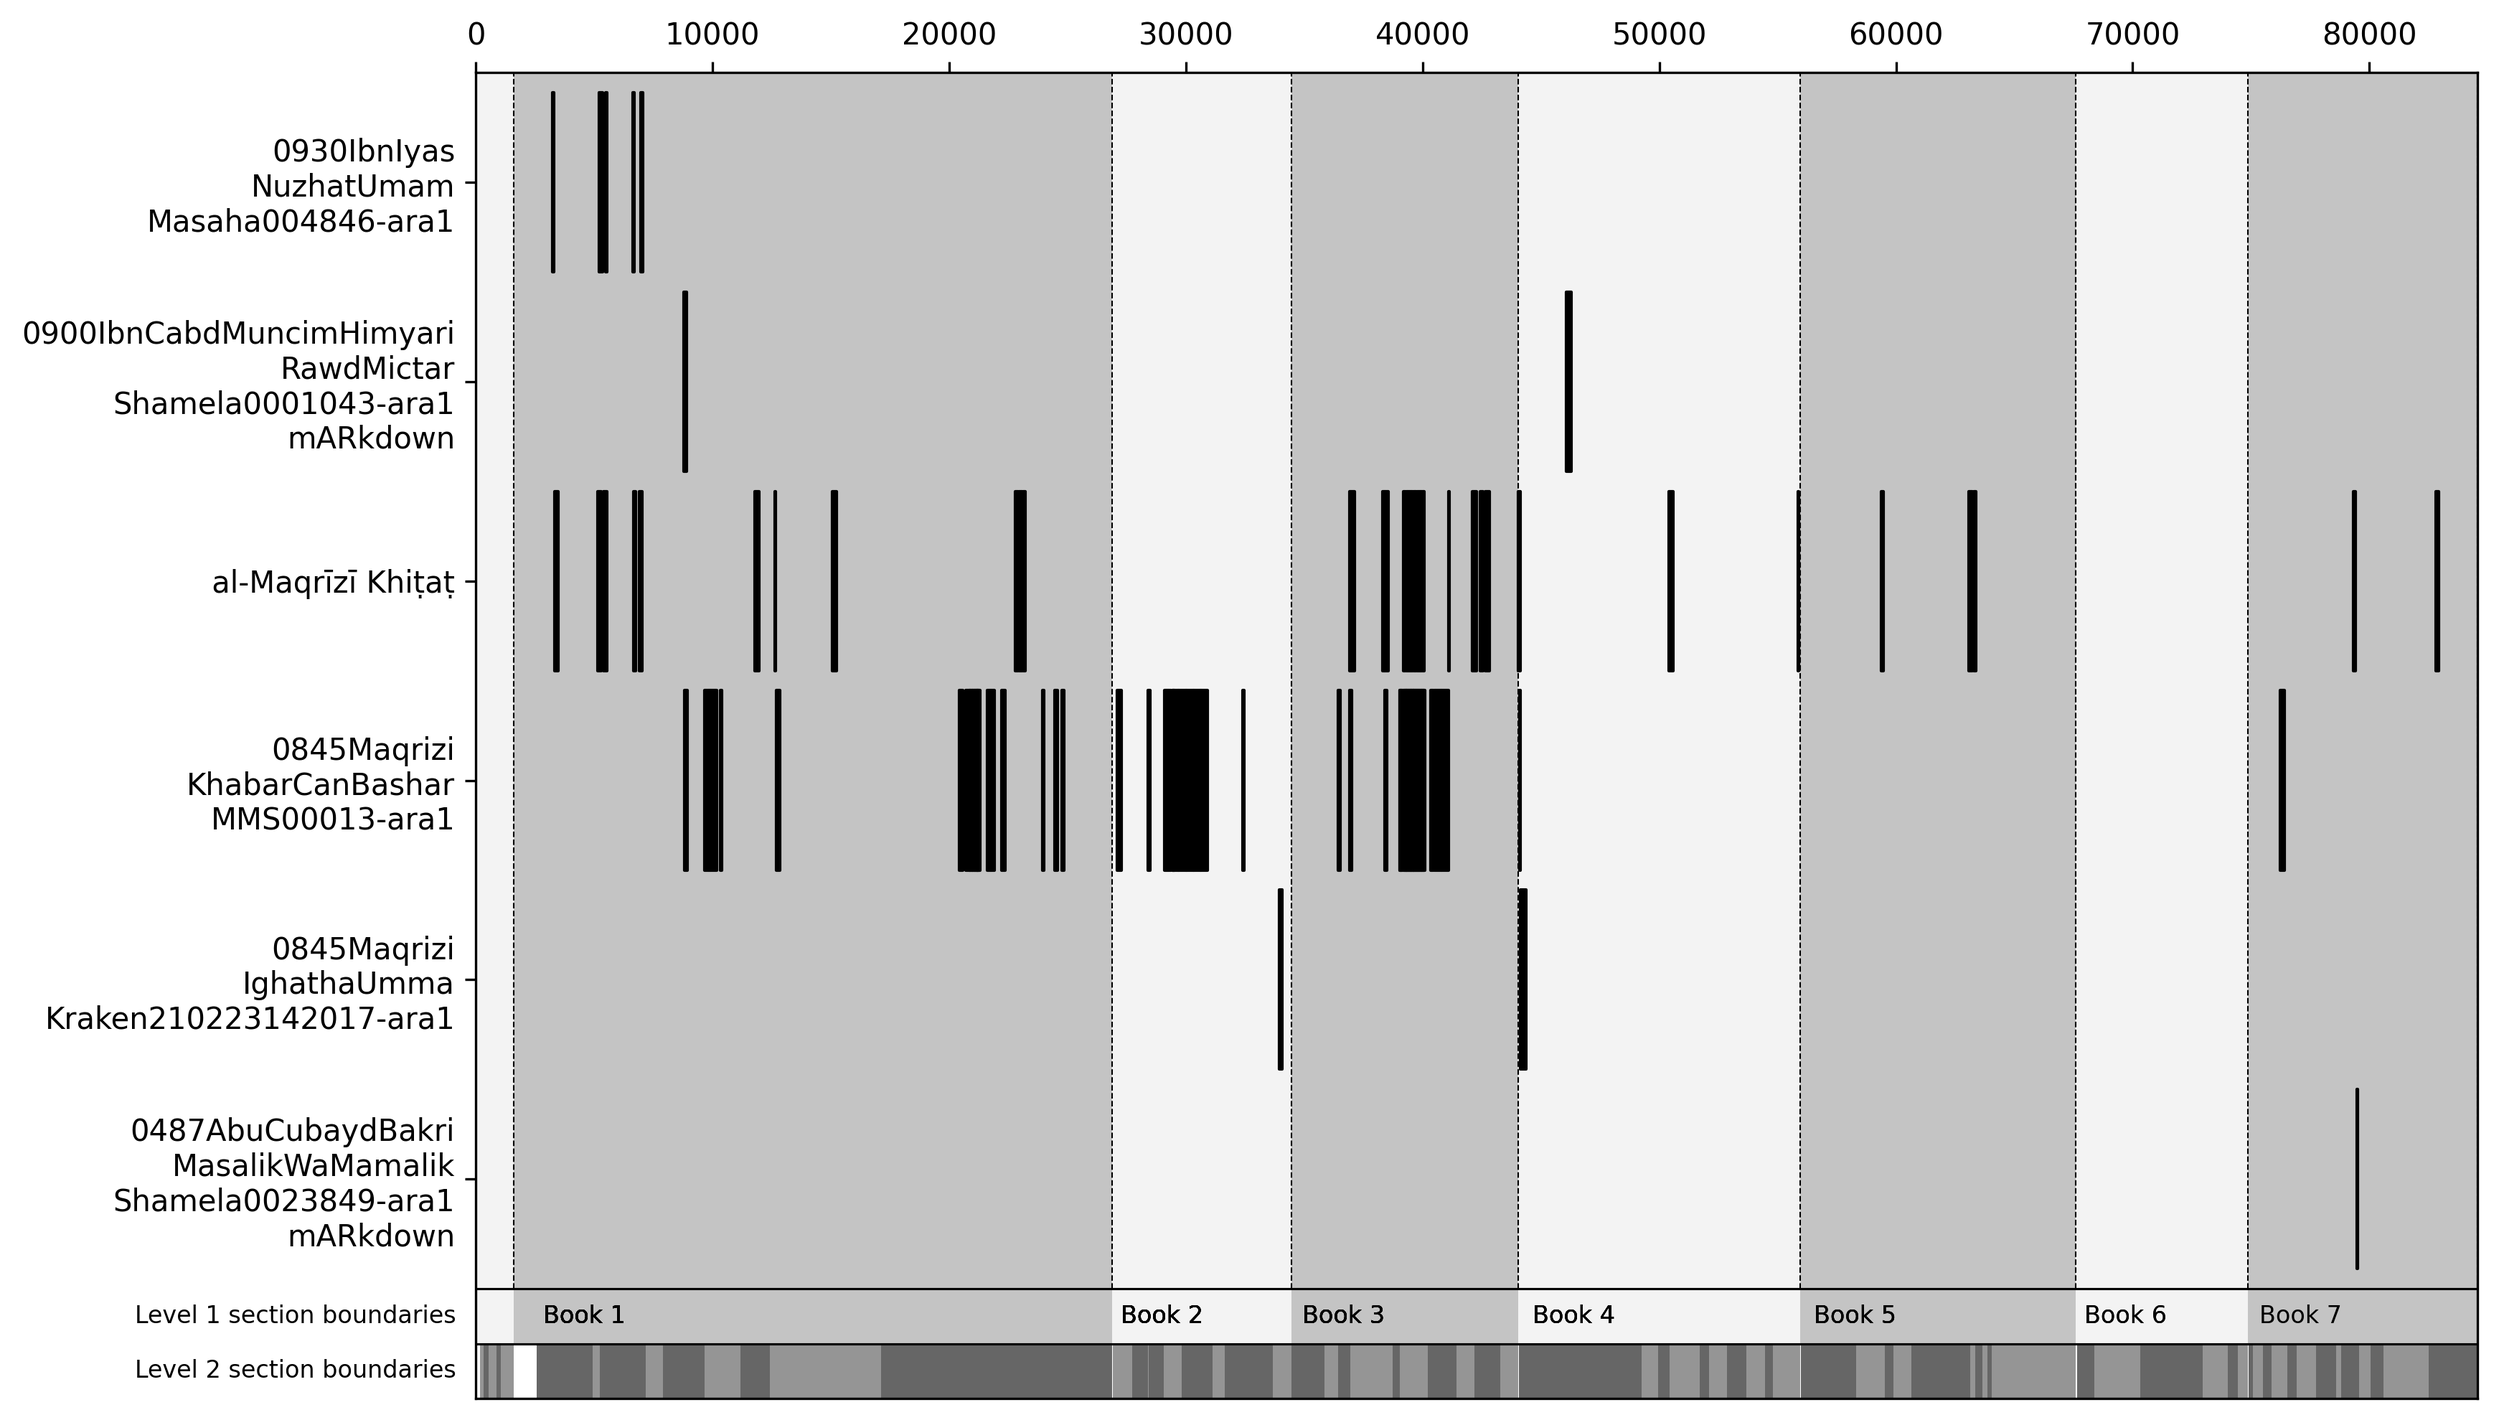
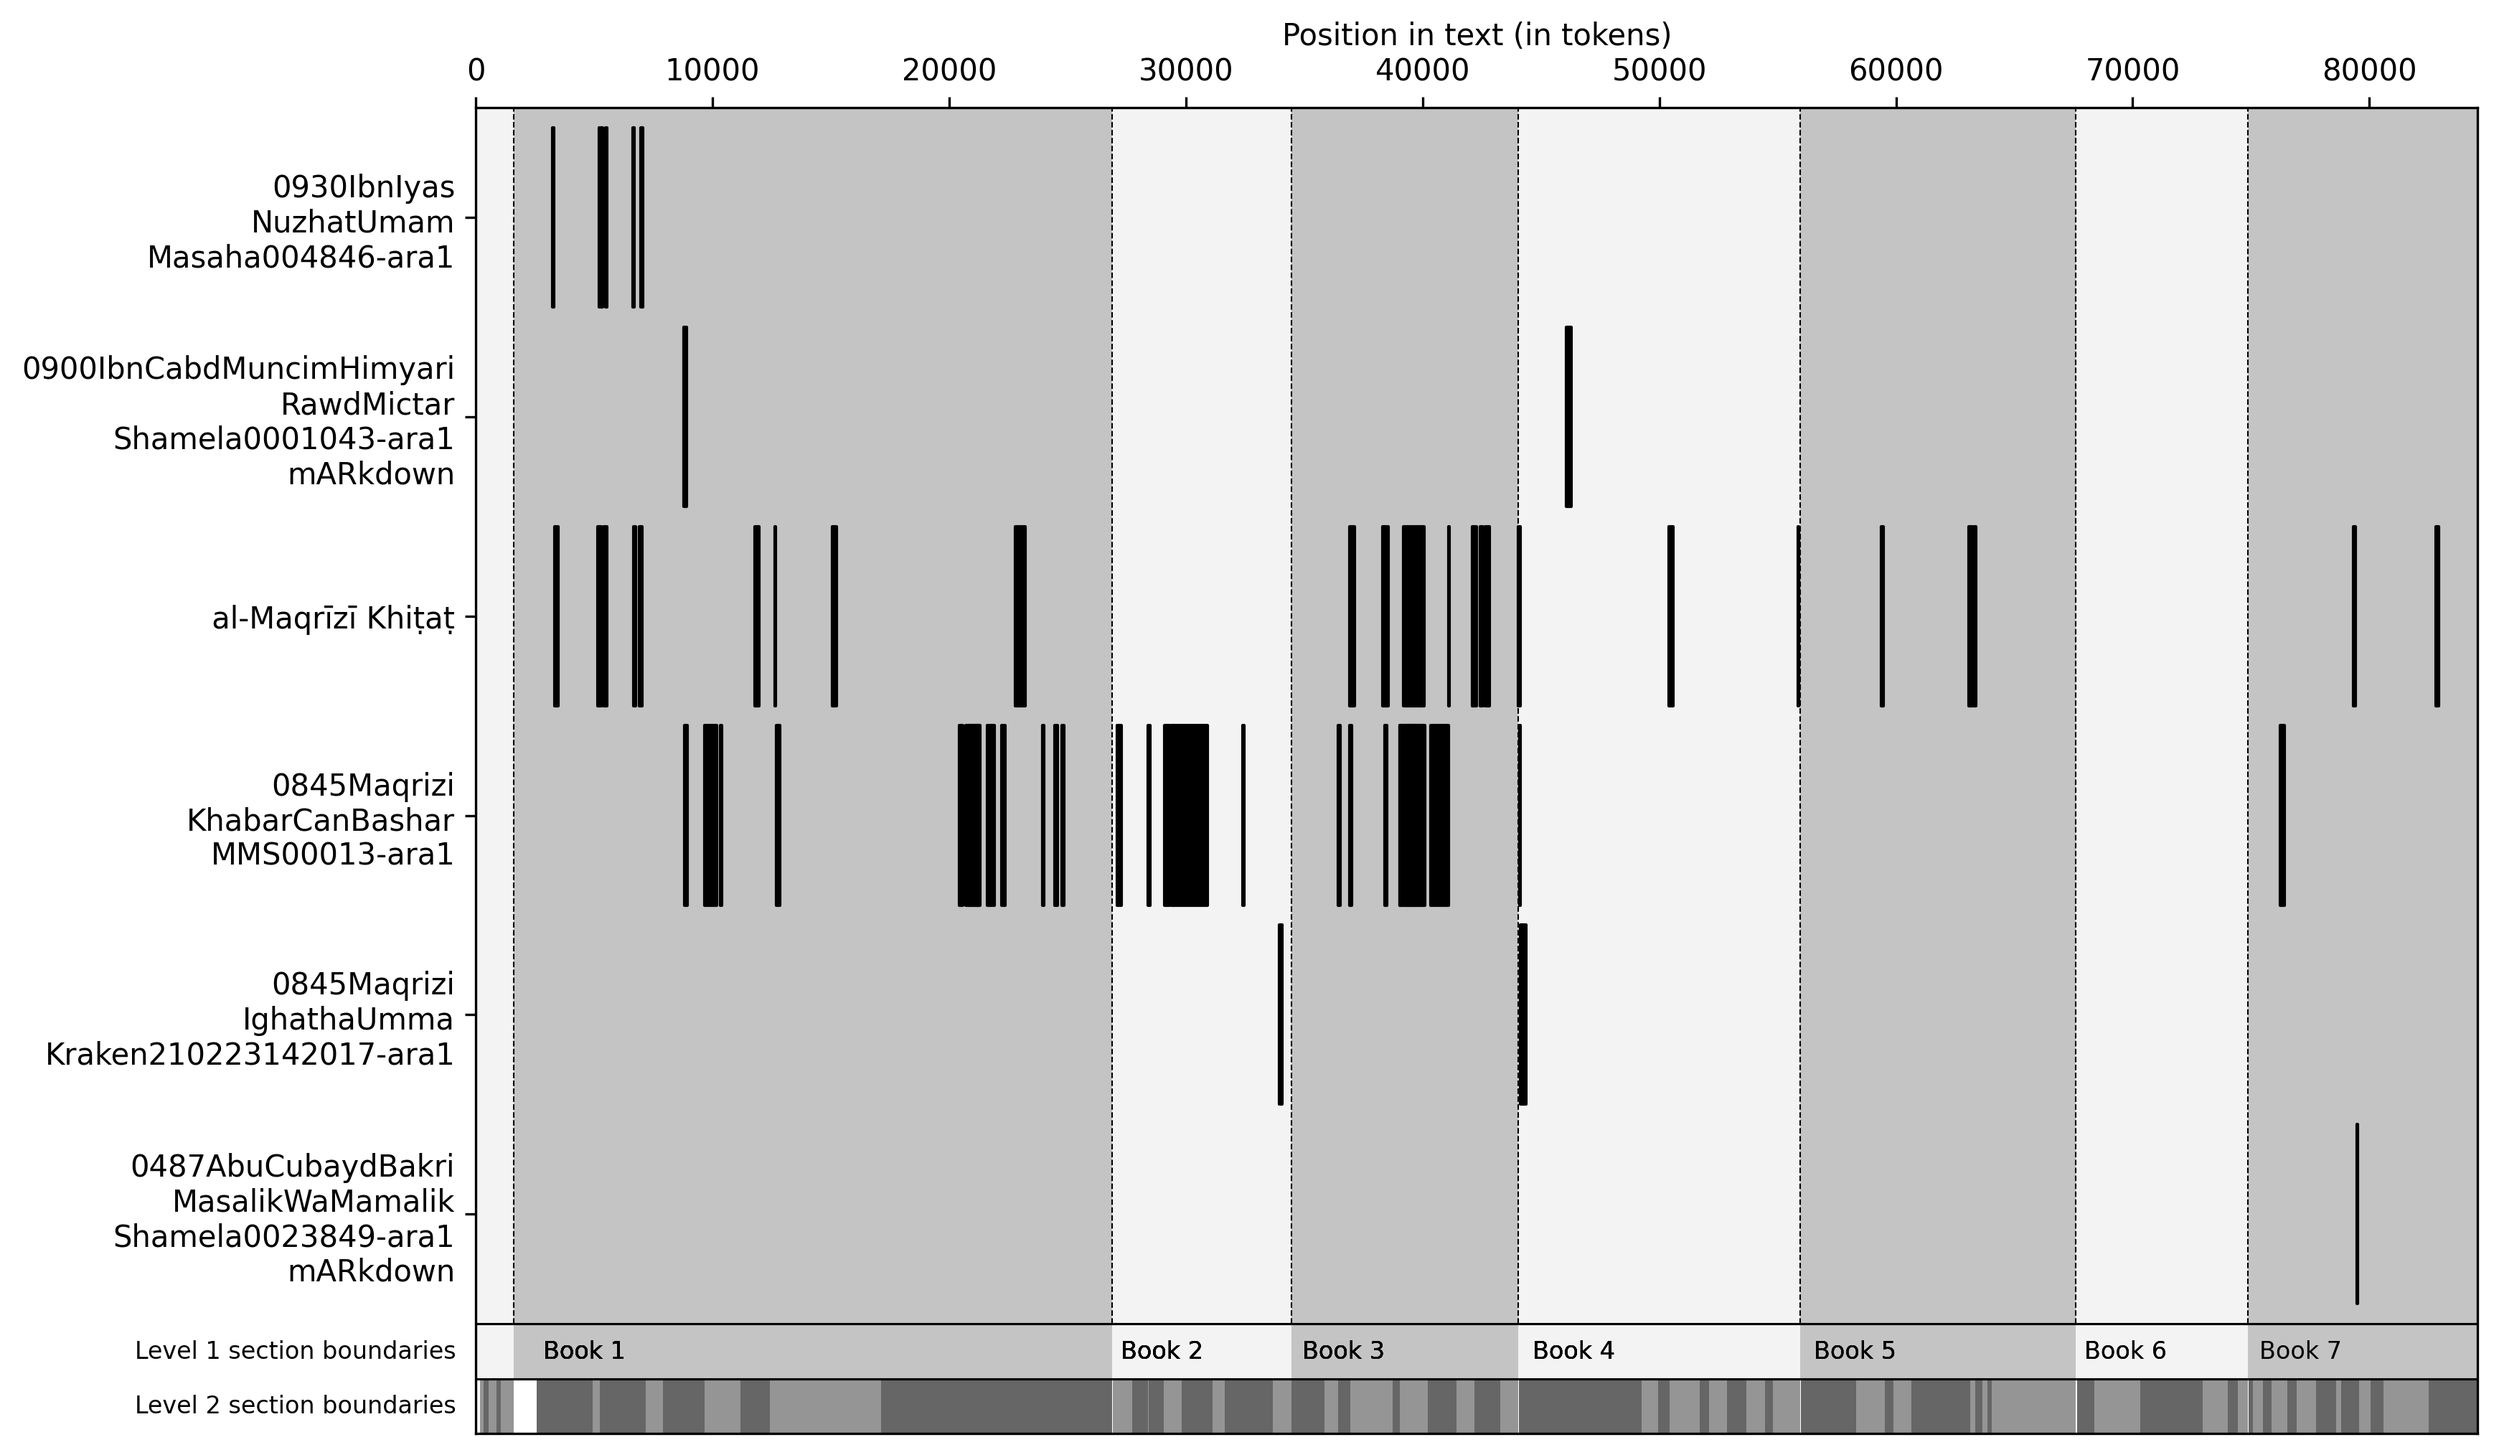
add and test xaxis label

diff --git a/pairwise_data/graph_pairwise.py b/pairwise_data/graph_pairwise.py
@@ -390,10 +390,11 @@ class multireuseGraph():
             top = self.ax_height + (outside_axis*self.ax_height)
             h_line_pos = self.ax_height
         
-        # If keep_offset_scale and 'bottom' - move the scale to the top - otherwise remove axis
+        # If keep_offset_scale and 'bottom' - move the scale and labels to the top - otherwise remove axis
         if keep_offset_scale:
             if pos == 'bottom':
                 self.ax.xaxis.tick_top()
+                self.ax.xaxis.set_label_position('top')
         else:
             self.ax.xaxis.set_visible(False)
         
@@ -463,6 +464,8 @@ class multireuseGraph():
                 self._add_section_lines(section_map, vline_start, vline_height, pos=pos, keep_offset_scale=keep_offset_scale,
                 heirarchical_shading=heirarchical_shading, dotted_vlines_level=dotted_vlines_level, overlay_annotation=overlay_annotation,
                 alternate_shades=alternate_shades, extend_shades=extend_shades)
+        
+
 
     def _calculate_set_xlim(self, end_marker="text_end"):
         """From data infer xlims"""
@@ -476,6 +479,16 @@ class multireuseGraph():
         # To do : Add ability to use this as a way to filter based on section header range
         self.x_max = end_pos
         self.ax.set_xlim(0, end_pos)
+    
+    def _set_xlabel(self):
+        """Set the units in the xlabel if the metadata is available to determine the unit, overwise just use 'Position in text'"""
+        meta_mapper = self.data_store["meta_mapper"]
+        x_label = "Position in text"
+        if meta_mapper is not None:
+            units_label = meta_mapper[meta_mapper["variable_name"] == "offset_units"]["label"].values.tolist()[0]
+            x_label = f"{x_label} (in {units_label})"
+        self.ax.set_xlabel(x_label)
+
 
     def create_reuse_graph(self, sort_strategy='chron', row_gap=0.1, figsize=None):
         """Full func for handling graph writing
@@ -496,6 +509,7 @@ class multireuseGraph():
 
         patch_collection = self._write_graph_patches(row_gap=self.row_gap, sort_strategy=self.sort_strategy)
         self._calculate_set_xlim()
+        self._set_xlabel()
 
     def write_figure(self, image_path):
         """Allows us to write the figure after tweaking things - like adding annotation"""
